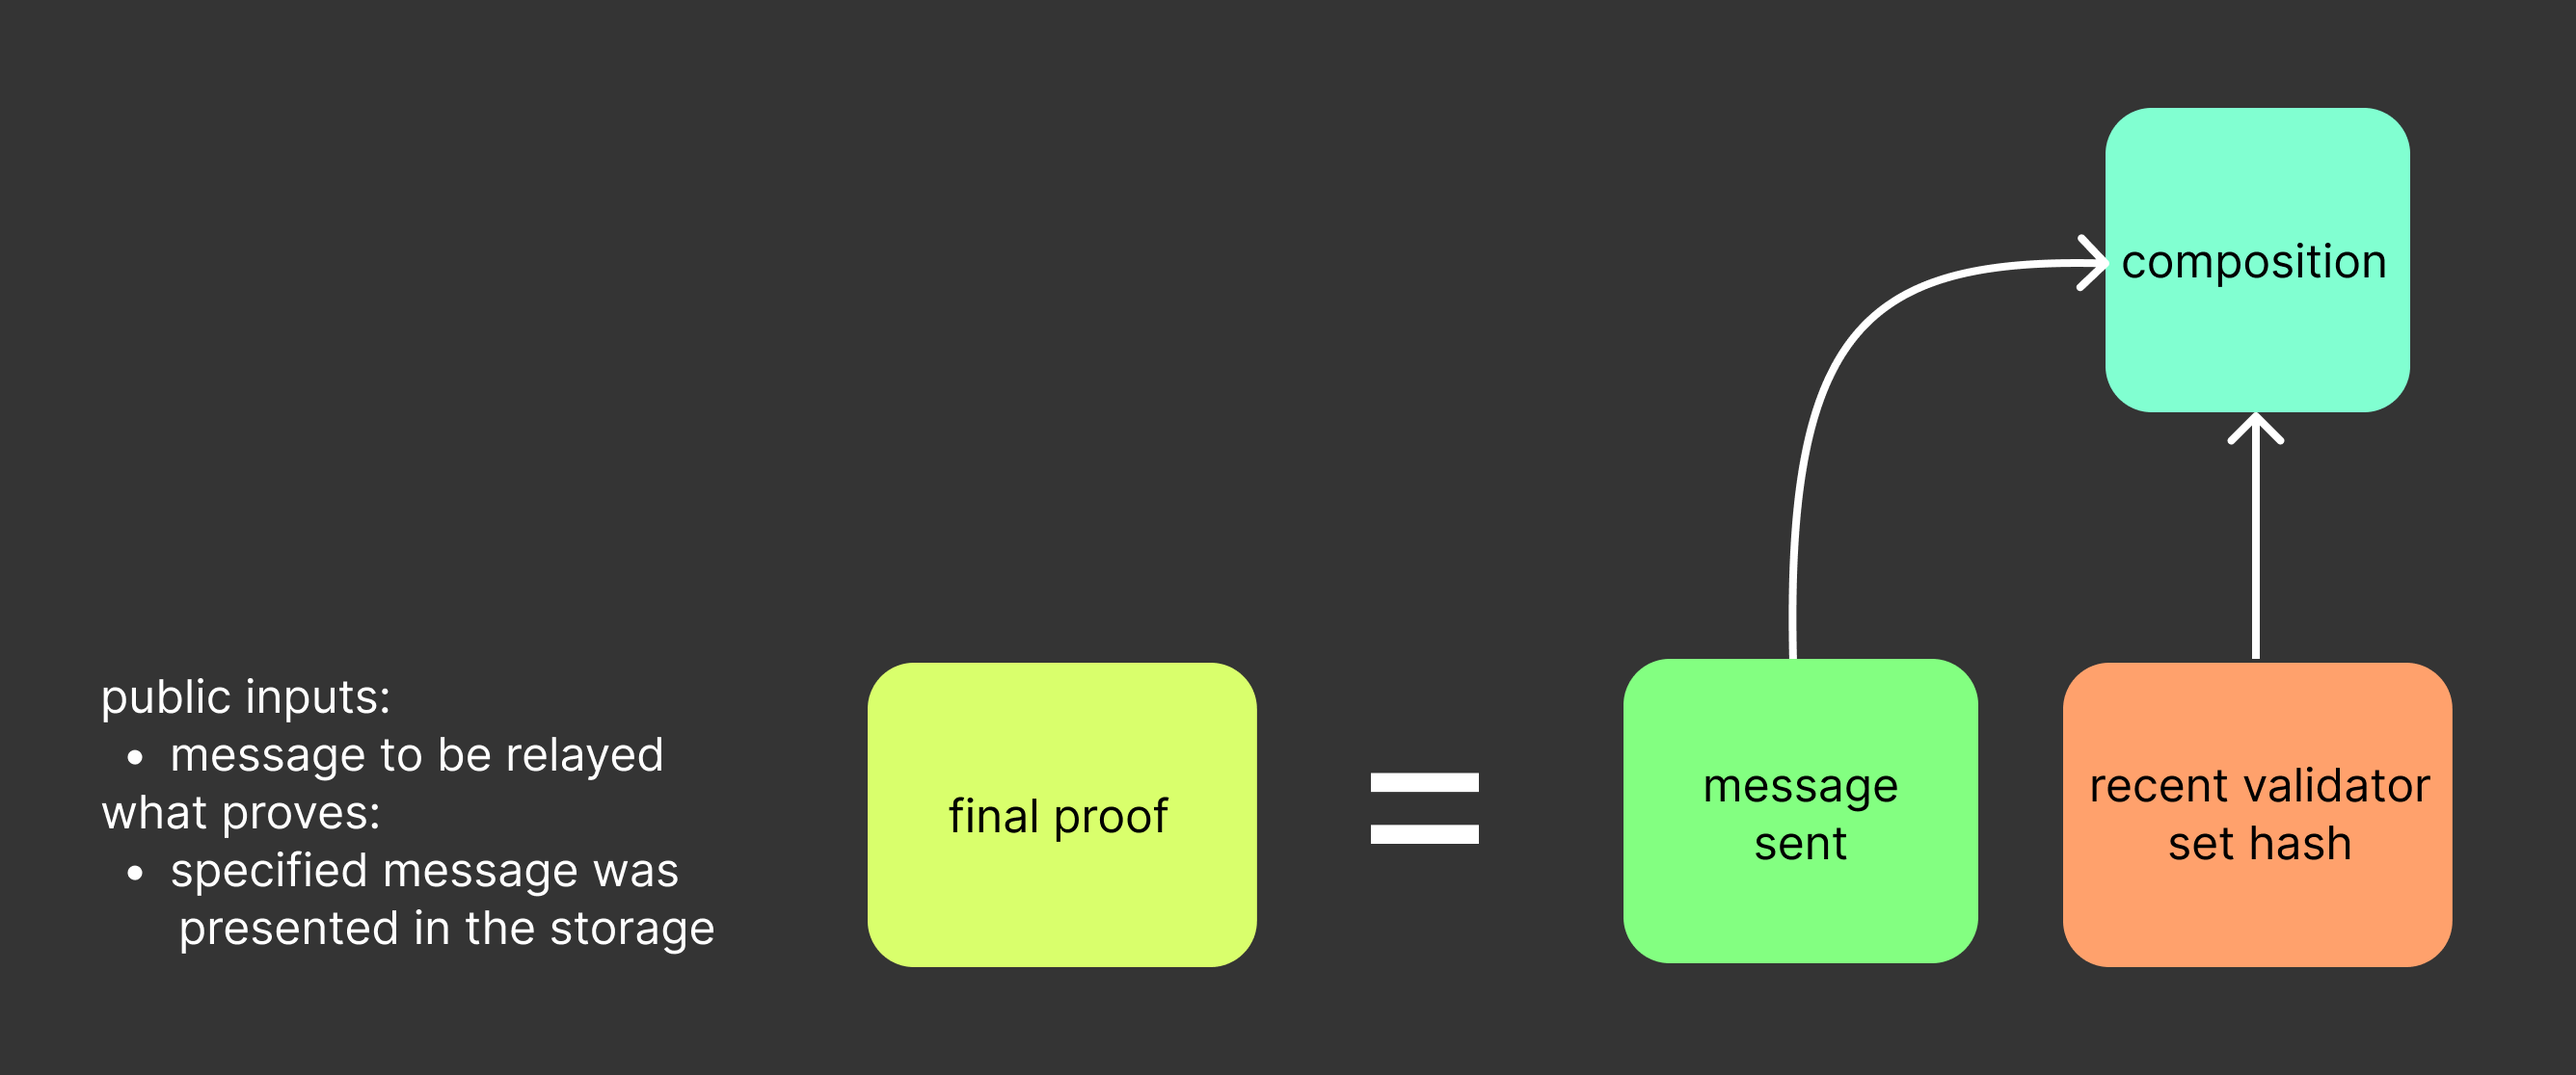
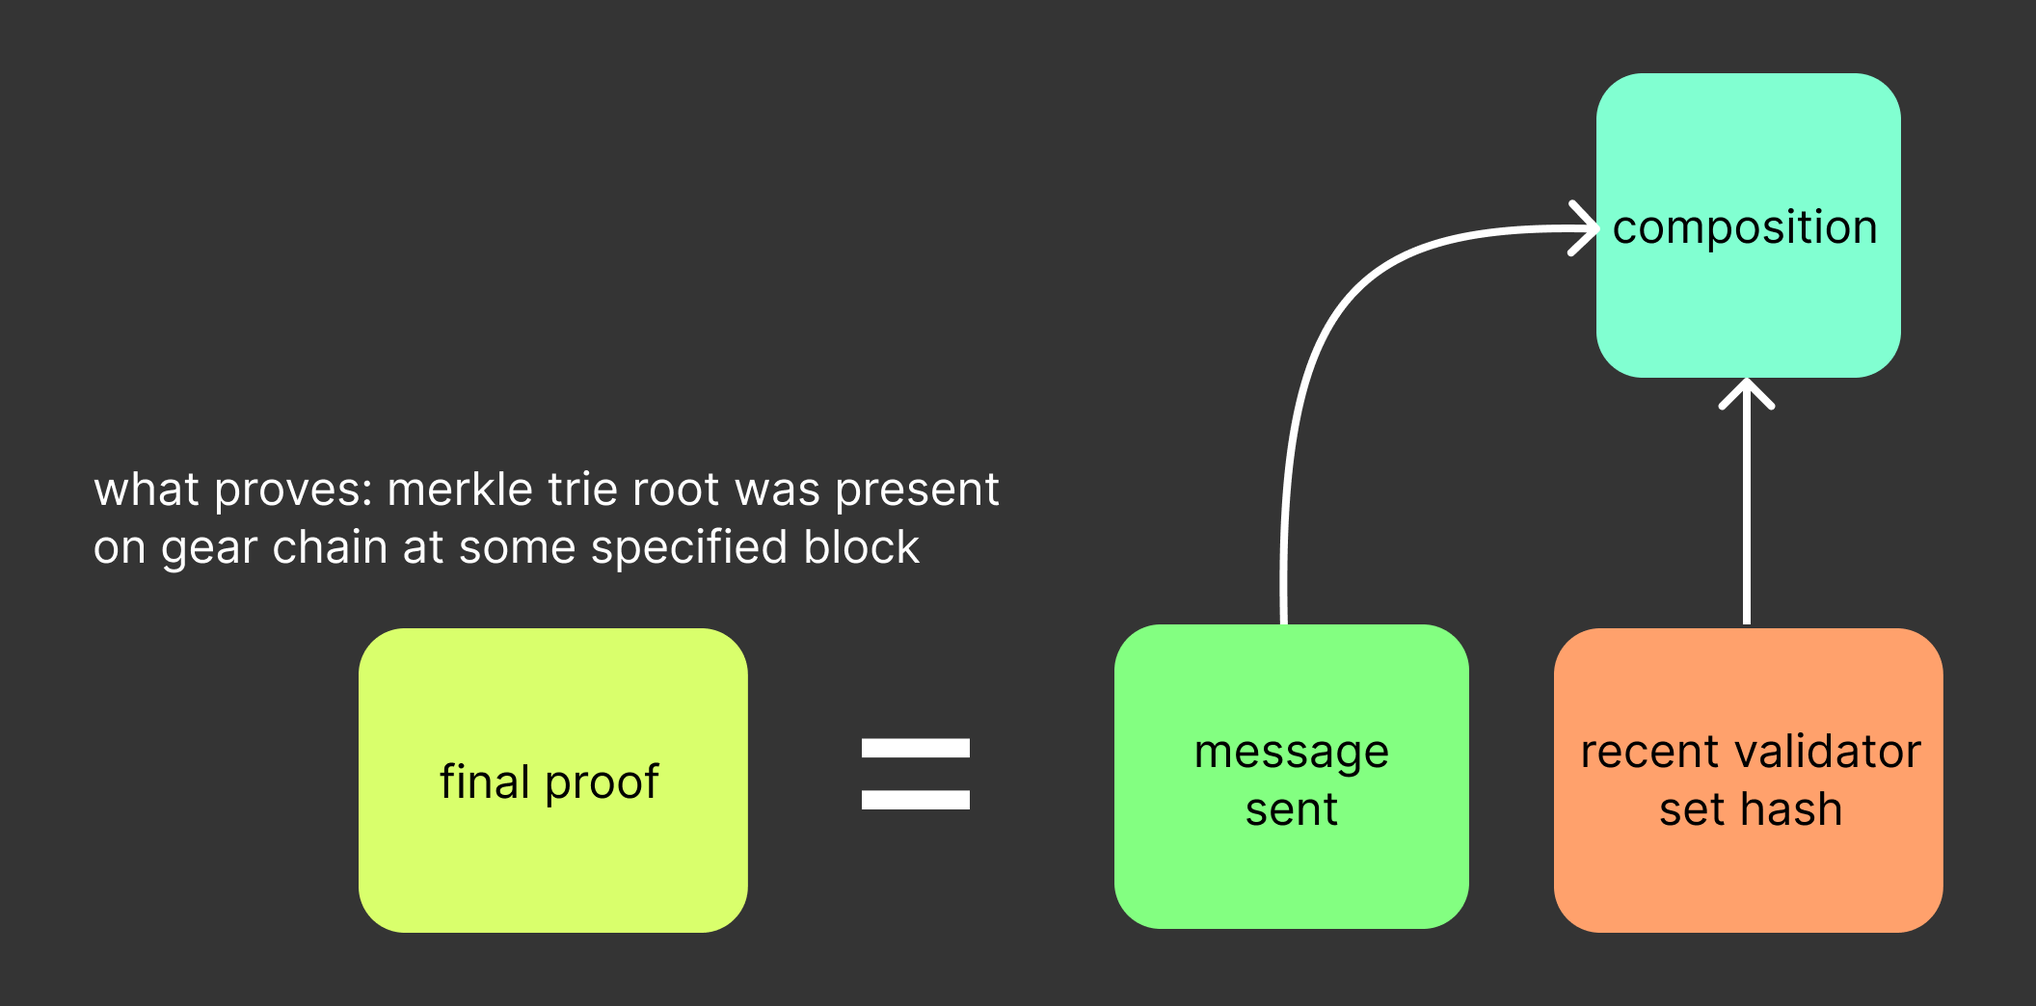
Update circuit images

Changed region(s): [[0.5312, 0.0613, 0.9688, 0.9502], [0.0312, 0.613, 0.5, 0.9502], [0.0312, 0.4598, 0.5, 0.5824]]

diff --git a/README.md b/README.md
@@ -37,42 +37,42 @@ This repository contains implementation of token bridging protocol built on top 
 - `message queue contract` reads merkle root from `relayer contract`, checks merkle proof and relays message to `ERC20 treasury`.
 - `ERC20 treasury` releases funds to user account on ethereum.
 
-## Circuits
+## Prover circuits
 
-### block finality
-Proves that some block was correctly finalized on the gear chain.
+### Block finality
+Proves that some block was finalized by some authority set on the gear chain.
 
 ![block finality circuit](https://github.com/gear-tech/gear-bridges/blob/main/images/block_finality_circuit.png)
 
-### validator set change
-Used to compose `recent validator set` proof.
+### Validator set change
+Proves that validator set have changed.Validator set change means that current validator set finalized a block containing next validator set in its storage.
 
 ![validator set change circuit](https://github.com/gear-tech/gear-bridges/blob/main/images/next_validator_set_circuit.png)
 
-### substrate storage trie circuit
+### Substrate storage trie circuits
 There are only two types of nodes currently supported for now:
 
-#### branch node without value
+#### Branch node without value
 ![branch node parser circuit](https://github.com/gear-tech/gear-bridges/blob/main/images/mpt_branch_node_parser_circuit.png)
 
-#### hashed value leaf
+#### Hashed value leaf
 ![leaf node parser circuit](https://github.com/gear-tech/gear-bridges/blob/main/images/mpt_leaf_node_parser_circuit.png)
 
-They're composed into storage proof, which prove that some block contains data in storage at particular address
+These proofs are composed into storage proof, which can prove that some block contains data in its storage at particular address:
 
 ![storage proof circuit](https://github.com/gear-tech/gear-bridges/blob/main/images/storage_proof_circuit.png)
 
-### recent validator set
-Used to prove chain of validator set changes to prove transition from genesis to the recent validator set in one proof.
+### Recent validator set
+Used to prove chain of validator set changes to prove transition from genesis to the recent validator set in one proof. Genesis validator set is present as a constant in the circuit.
 
 ![recent validator set circuit](https://github.com/gear-tech/gear-bridges/blob/main/images/recent_validator_set_circuit.png)
 
-### message sent
-Used to prove that specific message was submitted on gear chain for bridging.
+### Message inclusion
+Used to prove that specific message merkle root was submitted on gear chain for bridging, that is, included into `pallet-gear-bridge` storage.
 
 ![message sent circuit](https://github.com/gear-tech/gear-bridges/blob/main/images/message_sent_circuit.png)
 
-### final proof
-Proof that's submitted to ethereum.
+### Final proof
+Proof that's submitted to ethereum. Proves that message merkle root was present in storage of `pallet-gear-bridge` at some finalized block.
 
 ![final proof circuit](https://github.com/gear-tech/gear-bridges/blob/main/images/final_proof_circuit.png)
